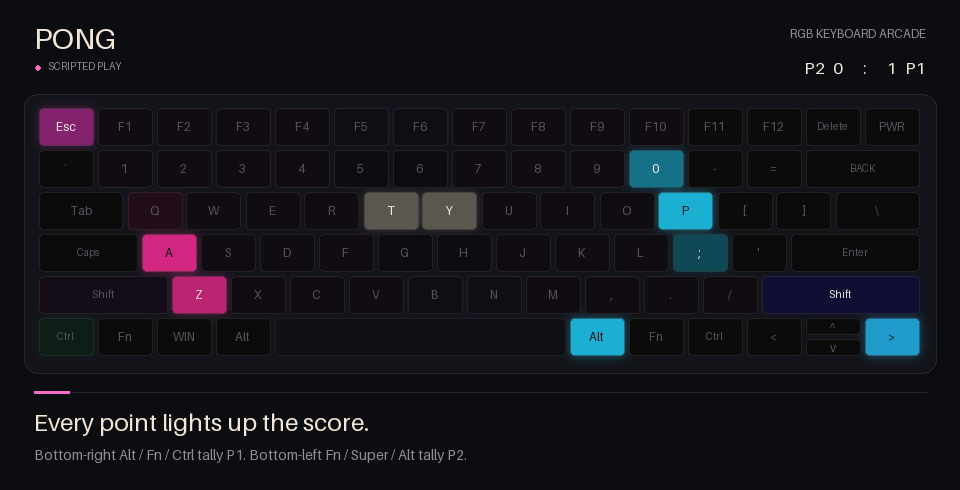
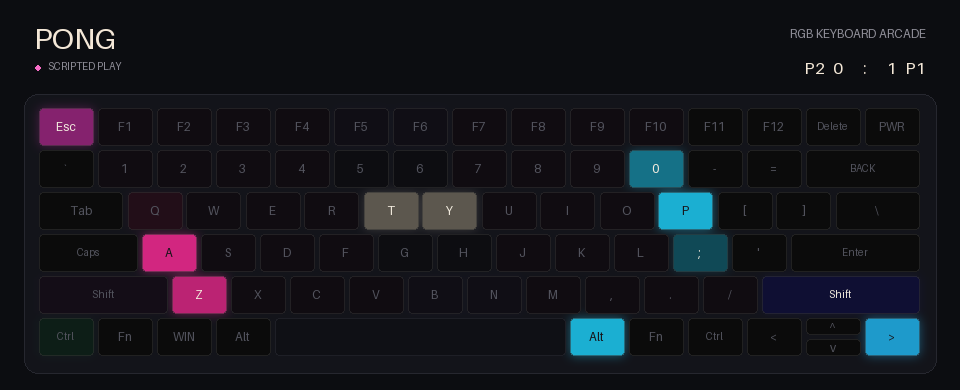
Remove demo captions and crop the unused space

diff --git a/scripts/build_demo.py b/scripts/build_demo.py
@@ -1,5 +1,5 @@
 #!/usr/bin/env python3
-"""Reproducible, captioned demos from the real engine. No keyboard or desktop I/O.
+"""Reproducible demos from the real engine. No keyboard or desktop I/O.
 
 Inputs are scripted; game rules, timing, LED effects, and physical geometry are
 unchanged. Snake's scripted player plans legal routes; Minesweeper's scripted
@@ -17,7 +17,7 @@ from rgb_keyboard_arcade.autopilot import choose_avoiding
 from rgb_keyboard_arcade.config import DEFAULT, load_profile
 from rgb_keyboard_arcade.modes import static_routes, tail_route
 
-WIDTH, HEIGHT = 960, 490
+WIDTH, HEIGHT = 960, 390
 STEP = .025  # Same simulation cadence as the device daemon.
 BG = (12, 13, 17)
 INK = (244, 231, 215)
@@ -44,15 +44,11 @@ class Clip:
         self.fps, self.output = fps, output
         self.now = 0.
         self.frames, self.chapters, self.proofs = [], [], []
-        self.caption = ('', '')
         self.next_frame = 0.
         self.shots = []
         self.last_phase = None
 
     def chapter(self, title, detail):
-        for text, size in ((title, 24), (detail, 14)):
-            assert FONTS[size].getlength(text) <= WIDTH - 68, f'Caption overflows: {text}'
-        self.caption = (title, detail)
         self.chapters.append({'at': round(self.now, 3), 'title': title, 'detail': detail})
         self.shots.append((len(self.frames) + round(self.fps * .7), title))
 
@@ -142,22 +138,19 @@ class Clip:
             foreground = (23, 20, 25) if sum(rgb) > 430 else ((242, 235, 222) if lit else (83, 84, 94))
             d.text(((box[0] + box[2]) / 2, (box[1] + box[3]) / 2), text,
                    anchor='mm', font=FONTS[10 if len(text) > 3 else 12], fill=foreground)
-        d.line((34, 392, WIDTH - 34, 392), fill=(41, 40, 47))
-        d.rectangle((34, 391, 69, 393), fill=accent)
-        d.text((34, 407), self.caption[0], font=FONTS[24], fill=INK)
-        d.text((34, 446), self.caption[1], font=FONTS[14], fill=MUTED)
         return im
 
     def save(self):
         self.output.mkdir(parents=True, exist_ok=True)
         # One palette per clip prevents unrelated per-frame color quantization
-        # from making static keys/captions shimmer. Reserve resolution for LEDs.
-        swatches = Image.new('RGB', (160 * 24, 82))
+        # from making static keys and titles shimmer. Reserve resolution for LEDs.
+        swatch_height = round(HEIGHT / 6)
+        swatches = Image.new('RGB', (160 * 24, swatch_height))
         for i in range(24):
             index = round(i * (len(self.frames) - 1) / 23)
-            swatches.paste(self.frames[index].resize((160, 82)), (i * 160, 0))
+            swatches.paste(self.frames[index].resize((160, swatch_height)), (i * 160, 0))
         sampled = swatches.quantize(colors=224, method=Image.Quantize.MEDIANCUT)
-        # Downsampled swatches can lose the exact text ink and tint captions
+        # Downsampled swatches can lose the exact text ink and tint titles
         # toward a nearby LED hue. Reserve the static UI colors explicitly.
         reserved = [BG, INK, MUTED, (19, 20, 26), (38, 39, 47), (15, 16, 21),
                     (30, 31, 38), (41, 40, 47), (23, 20, 25), (242, 235, 222),
@@ -190,11 +183,11 @@ class Clip:
         thumbs = []
         for index, title in self.shots:
             index = min(index, len(self.frames) - 1)
-            thumb = self.frames[index].resize((480, 245))
+            thumb = self.frames[index].resize((480, HEIGHT // 2))
             thumbs.append(thumb)
-        sheet = Image.new('RGB', (960, 245 * math.ceil(len(thumbs) / 2)), BG)
+        sheet = Image.new('RGB', (960, (HEIGHT // 2) * math.ceil(len(thumbs) / 2)), BG)
         for i, thumb in enumerate(thumbs):
-            sheet.paste(thumb, ((i % 2) * 480, (i // 2) * 245))
+            sheet.paste(thumb, ((i % 2) * 480, (i // 2) * (HEIGHT // 2)))
         sheet.save(path)
 
 
